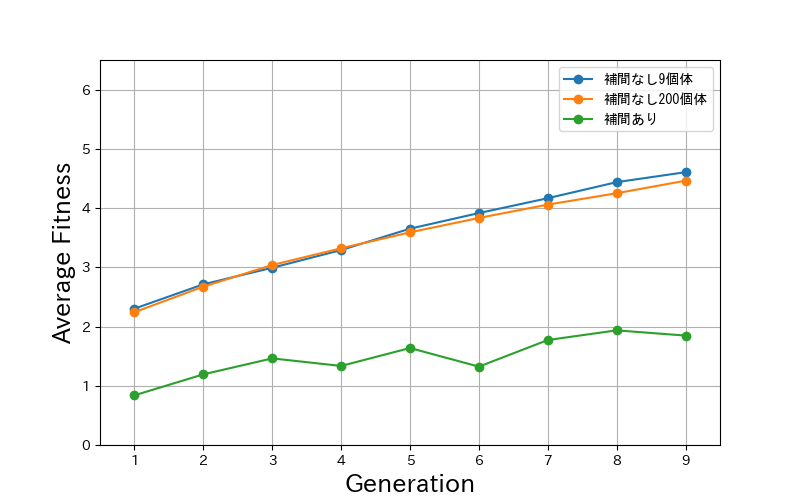
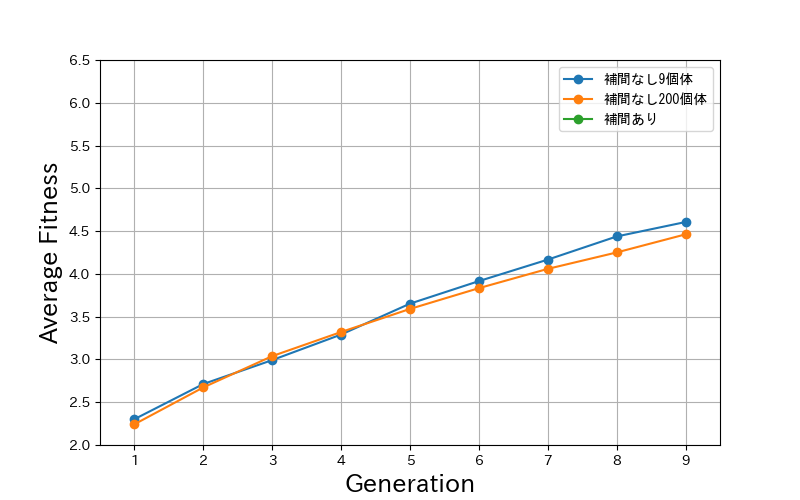
軸だけ調整した

diff --git a/backend/core/log.py b/backend/core/log.py
@@ -257,7 +257,7 @@ def log_comparison(evaluate_num: int, interpolate_num: int, file_path: str, best
     ax.set_title("")
     ax.set_xlim(0.5,NUM_GENERATIONS+0.5)
     if method == "Gaussian":
-        ax.set_ylim(0,6.5)
+        ax.set_ylim(2,6.5)
     if method == "Ackley":
         ax.set_ylim(2.0,4.5)
     if method == "Gaussian_two_peak":
